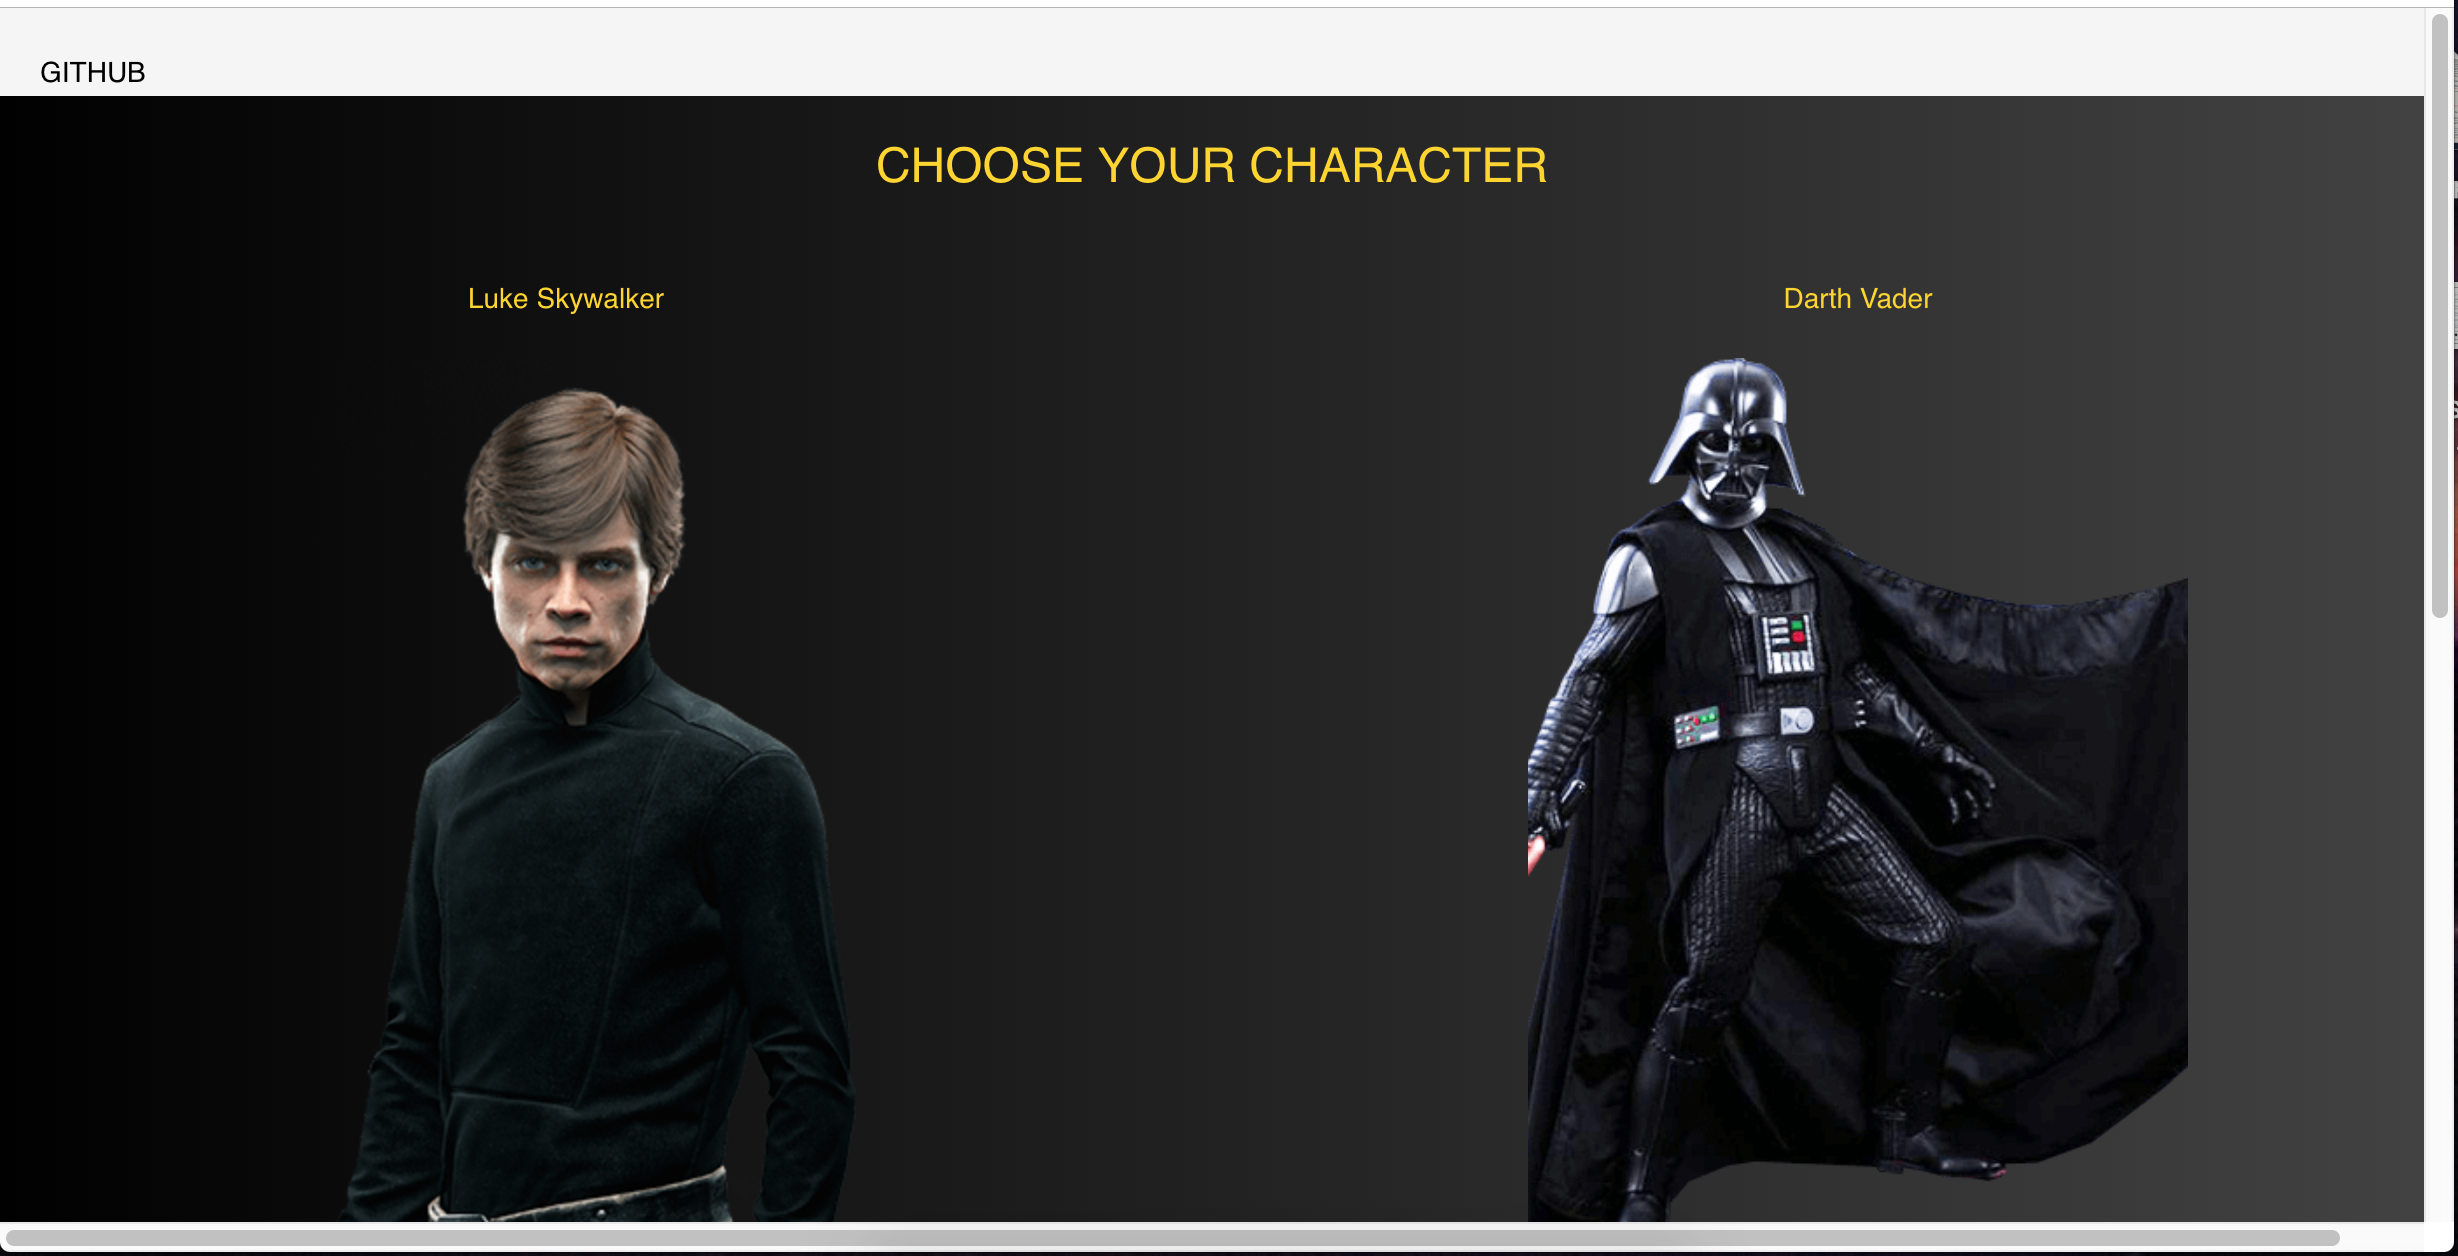
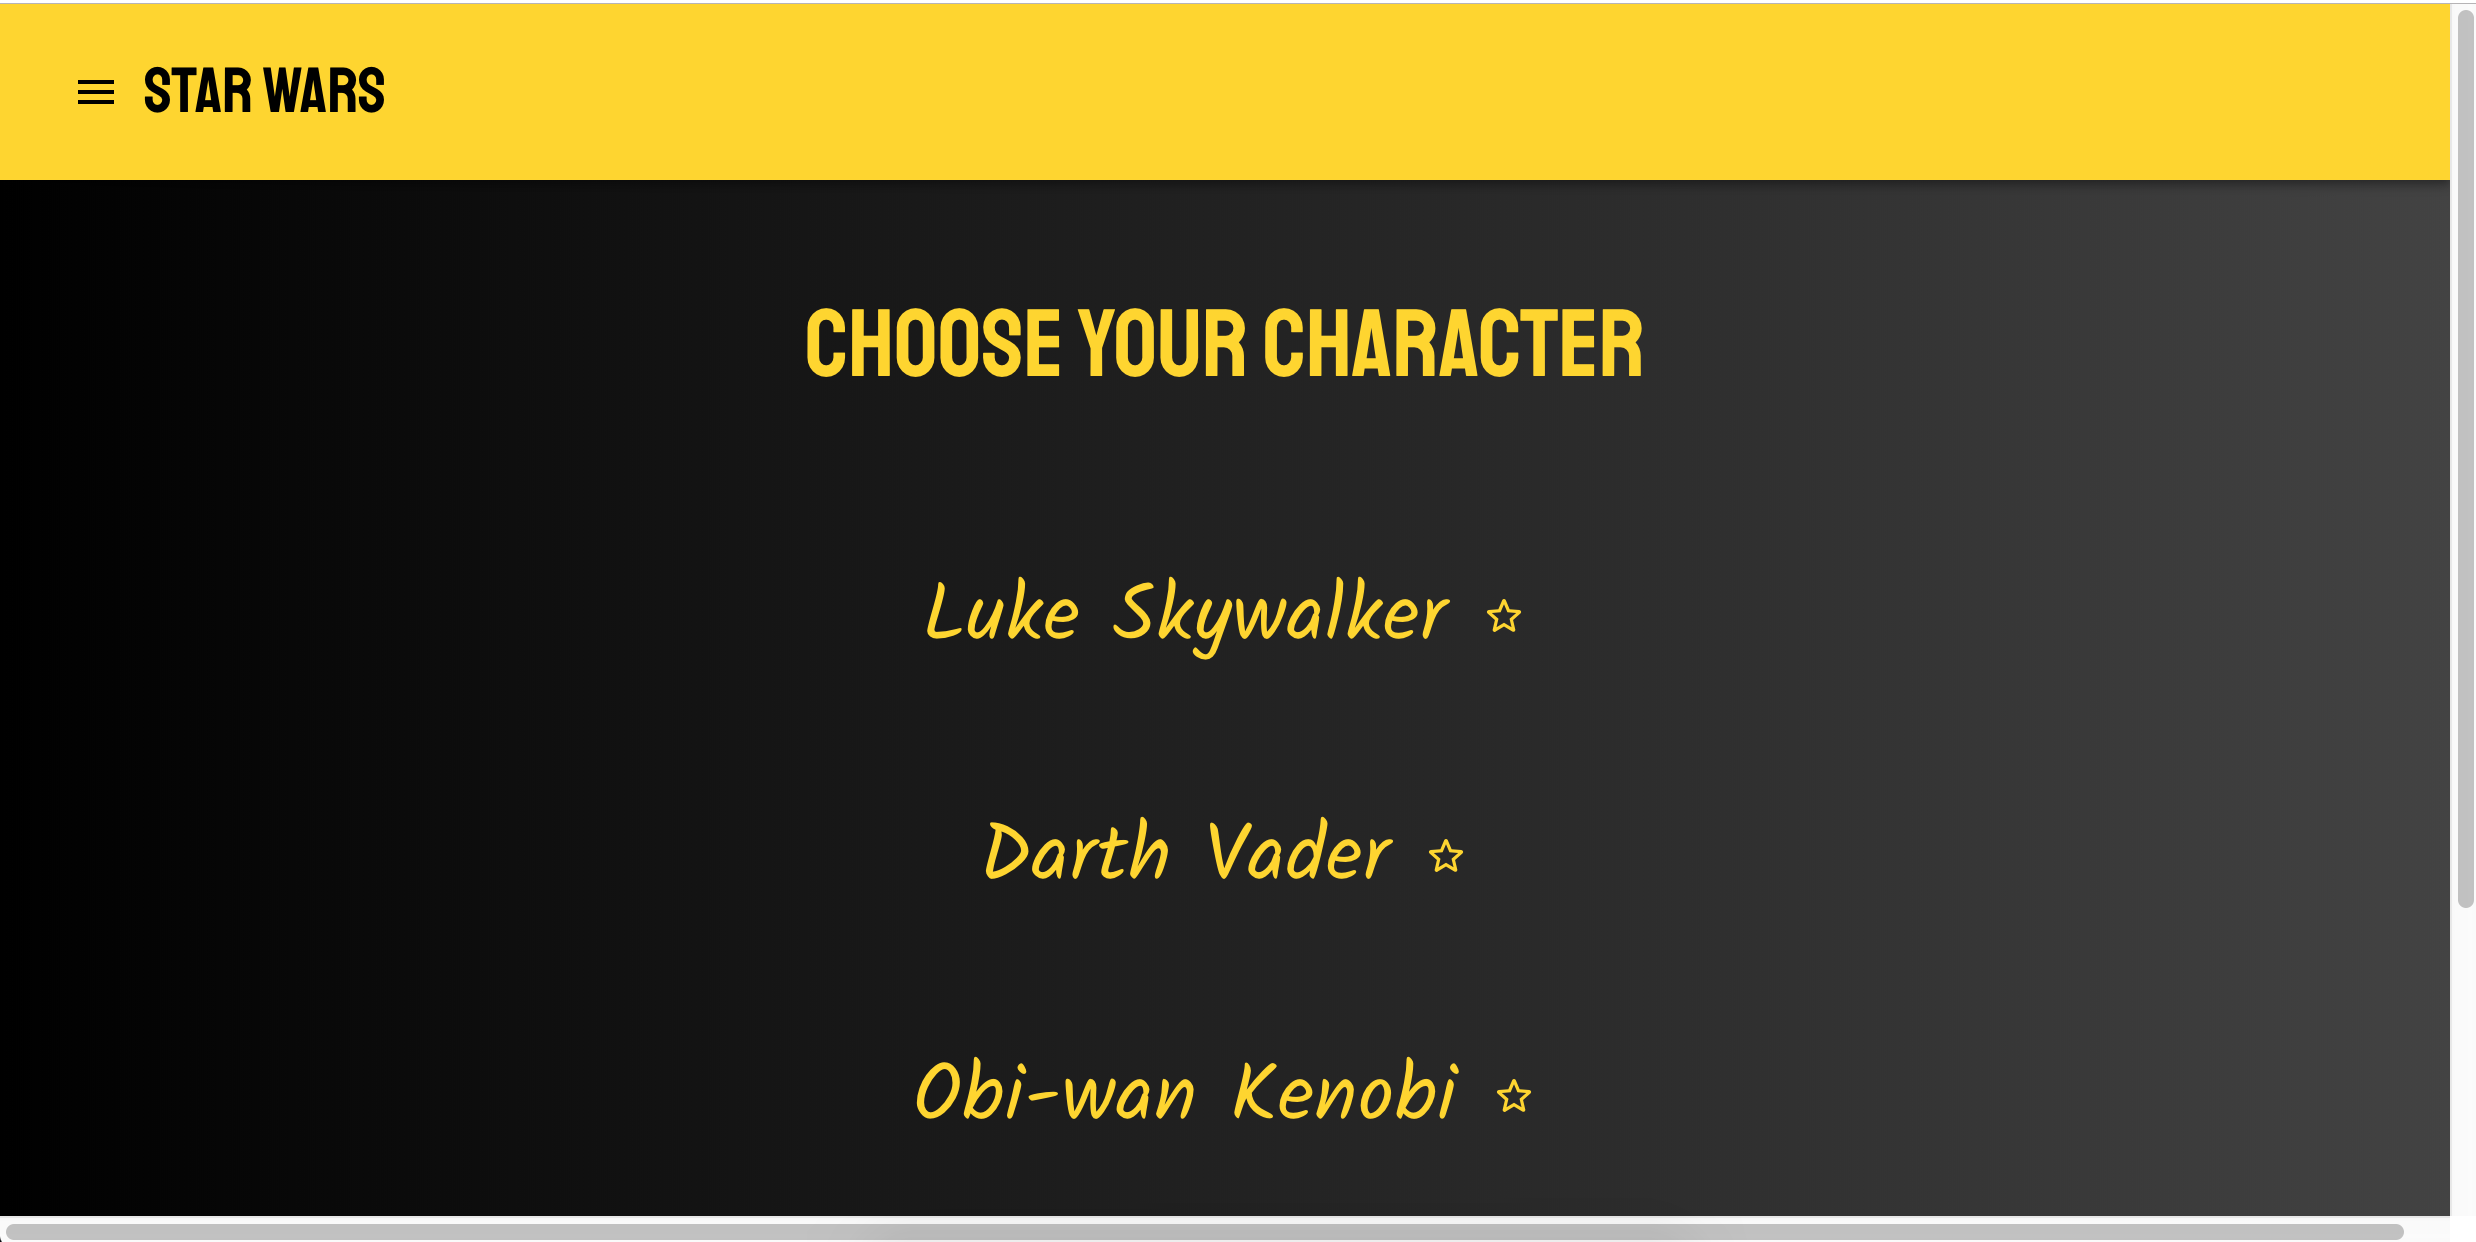
Final cleanup and update readme

diff --git a/src/components/Characters/index.js b/src/components/Characters/index.js
@@ -2,26 +2,25 @@ import React from 'react';
 import { Link } from 'react-router-dom';
 
 import { Grid, Typography } from '@material-ui/core';
+import { StarBorderRounded } from '@material-ui/icons';
 import { withStyles } from '@material-ui/core/styles';
 
 import { starWarsData } from './characters';
 
 const styles = theme => ({
-  characterAvatar: {
-    borderRadius: 0,
-    cursor: 'pointer',
-    height: '100%',
-    width: '100%',
-    '&:hover': {
-       outline: `10px solid ${theme.palette.primary.main}`,
-       transition: 'outline 0.6s linear',
-       margin: '0.1em',
-    },
-  },
   characterName: {
     color: theme.palette.primary.main,
     fontFamily: 'Kalam',
-    padding: theme.spacing.unit * 2.5,
+    fontSize: theme.spacing.unit * 5,
+    padding: theme.spacing.unit,
+  },
+  characterTitle: {
+    color: theme.palette.primary.main,
+    fontFamily: 'Staatliches',
+    fontSize: theme.spacing.unit * 6,
+    marginTop: theme.spacing.unit * 6,
+    marginBottom: theme.spacing.unit * 3,
+    padding: theme.spacing.unit,
   },
 });
 
@@ -34,7 +33,7 @@ const Characters = props => {
     <Grid container direction="column" justify="space-around" align="center" spacing={40}>
       <Grid item>
         <Typography
-          className={classes.characterName}
+          className={classes.characterTitle}
           variant="h3"
           color="primary"
         >
@@ -43,7 +42,12 @@ const Characters = props => {
       </Grid>
       {characters.map((ele, index) => {
         return (
-          <Grid item key={ele.name} xs={12} sm={6}>
+          <Grid
+            item
+            key={ele.name}
+            xs={12}sm={6}
+            className={classes.innerContainer}
+          >
             <Link
               to={{ pathname: '/character', ele }}
               style={{ textDecoration: 'none' }}
@@ -53,7 +57,7 @@ const Characters = props => {
                 variant="h6"
                 color="primary"
               >
-                {ele.name}
+                {ele.name} <StarBorderRounded />
               </Typography>
             </Link>
           </Grid>

diff --git a/src/components/Details/style.js b/src/components/Details/style.js
@@ -10,6 +10,9 @@ export const styles = theme => ({
     width: '50%',
     color: '#ffffff',
     textAlign: 'center',
+    [theme.breakpoints.down('sm')]: {
+      marginBottom: theme.spacing.unit * 4,
+    },
   },
   elementChild: {
     width: '300px',
@@ -28,13 +31,9 @@ export const styles = theme => ({
     border: '2px solid #828282',
     height: 550,
     width: 350,
-  },
-  nextButtonText: {
-    cursor: 'pointer',
-    fontFamily: 'Kalam',
-    fontSize: theme.spacing.unit * 4,
-    marginTop: theme.spacing.unit,
-    paddingBottom: theme.spacing.unit,
+    [theme.breakpoints.down('sm')]: {
+      marginLeft: theme.spacing.unit * 8,
+    },
   },
   iconElement: {
     width: '50px',
@@ -49,20 +48,28 @@ export const styles = theme => ({
     fontFamily: 'Abril Fatface',
     fontSize: theme.spacing.unit * 4,
     margin: '90px 0px 20px 0px',
+    paddingBottom: theme.spacing.unit * 4,
     borderBottom: '1px solid #5d5d5d',
   },
   linkText: {
     fontFamily: 'Abril Fatface',
-    fontSize: theme.spacing.unit * 2,
+    fontSize: theme.spacing.unit * 5,
     paddingTop: theme.spacing.unit * 2,
+  },
+  nextButtonText: {
+    cursor: 'pointer',
+    fontFamily: 'Nanum Gothic',
+    fontSize: theme.spacing.unit * 4,
+    paddingTop: theme.spacing.unit * 5,
+    paddingBottom: theme.spacing.unit,
   },
   openingCrawl: {
     fontFamily: 'Nanum Gothic',
     fontSize: theme.spacing.unit * 4,
     borderBottom: '1px solid #5d5d5d',
     paddingBottom: theme.spacing.unit * 2,
-    paddingLeft: theme.spacing.unit * 12,
-    paddingRight: theme.spacing.unit * 12,
+    paddingLeft: theme.spacing.unit * 10,
+    paddingRight: theme.spacing.unit * 10,
   },
   squareElement: {
     width: '100px',

diff --git a/src/components/Details/index.js b/src/components/Details/index.js
@@ -7,7 +7,7 @@ import { ArrowRight, InfoOutlined, PersonOutlineRounded } from '@material-ui/ico
 import { withStyles } from '@material-ui/core/styles';
 
 import { fetchMovies } from '../../store/actions';
-import { filmMap } from '../Character/filmMap';
+import { filmMap } from './filmMap';
 import { styles } from './style';
 import { formatDate } from '../../helperFunctions/dateFormatter';
 
@@ -50,7 +50,7 @@ class Details extends Component {
               >
                 Click here to select another character
                 <PersonOutlineRounded
-                  style={{ verticalAlign: 'bottom' }}
+                  style={{ verticalAlign: 'middle' }}
                 />
               </Typography>
             </Link>
@@ -88,13 +88,6 @@ class Details extends Component {
                   }
                 </Grid>
               </Grid>
-              <Typography
-                color="primary"
-                onClick={() => this.handleNext()}
-                className={classes.nextButtonText}
-              >
-                NEXT FILM <ArrowRight />
-              </Typography>
             </Grid>
             <Grid item xs={12} sm={6} className={classes.element}>
               {filmMap.map(film => {
@@ -110,6 +103,13 @@ class Details extends Component {
                 }
               })}
             </Grid>
+            <Typography
+              color="primary"
+              onClick={() => this.handleNext()}
+              className={classes.nextButtonText}
+            >
+              NEXT FILM <ArrowRight />
+            </Typography>
           </Grid>
           <Grid item xs={12}>
             <Typography

diff --git a/src/index.js b/src/index.js
@@ -1,27 +1,31 @@
 import React from 'react';
 import ReactDOM from 'react-dom';
-import { BrowserRouter, Route, Redirect, Switch } from 'react-router-dom';
+import { BrowserRouter } from 'react-router-dom';
+import { createStore, applyMiddleware, combineReducers } from 'redux';
+import thunk from 'redux-thunk';
+import { Provider } from 'react-redux';
 
 import './index.css';
 import App from './App';
 import * as serviceWorker from './serviceWorker';
-import Characters from './components/Characters';
-import Character from './components/Character';
+import reducer from './store/reducers';
 
-ReactDOM.render(
-  <App>
-    <BrowserRouter>
-      <Switch>
-        <Route path="/character" exact render={(props) => <Character {...props} />} />
-        <Route path="/" exact component={Characters} />
-        <Redirect to="/" />
-      </Switch>
-    </BrowserRouter>
-  </App>,
-  document.getElementById('root')
+const rootReducer = combineReducers({
+  reducer: reducer,
+});
+
+const store = createStore(
+  rootReducer,
+  applyMiddleware(thunk)
 );
 
-// If you want your app to work offline and load faster, you can change
-// unregister() to register() below. Note this comes with some pitfalls.
-// Learn more about service workers: http://bit.ly/CRA-PWA
+const app = (
+  <Provider store={store}>
+    <BrowserRouter>
+      <App />
+    </BrowserRouter>
+  </Provider>
+)
+
+ReactDOM.render(app, document.getElementById('root'));
 serviceWorker.unregister();

diff --git a/src/App.js b/src/App.js
@@ -1,22 +1,12 @@
 import React from 'react';
-import { Provider } from 'react-redux';
-import { createStore, applyMiddleware, combineReducers } from 'redux';
-import thunk from 'redux-thunk';
+import { Route, Switch, Redirect } from 'react-router-dom';
 
 import { createMuiTheme, MuiThemeProvider, withStyles } from '@material-ui/core/styles';
 
+import Characters from './components/Characters';
+import Character from './components/Character';
 import Navbar from './components/Navbar';
 import Footer from './components/Footer';
-import reducer from './store/reducers';
-
-const rootReducer = combineReducers({
-  reducer: reducer,
-});
-
-const store = createStore(
-  rootReducer,
-  applyMiddleware(thunk)
-);
 
 const styles = () => ({
   container: {
@@ -41,18 +31,26 @@ const theme = createMuiTheme({
   spacing: 8,
 });
 
+let routes = (
+  <Switch>
+    <Route path="/character" exact render={(props) => <Character {...props} />} />
+    <Route path="/" exact component={Characters} />
+    <Redirect to="/" />
+  </Switch>
+);
+
 const App = (props) => {
   const { classes } = props;
   return (
-    <Provider store={store}>
+    <Route>
       <MuiThemeProvider theme={theme}>
         <Navbar />
         <div className={classes.container}>
-          {props.children}
+          {routes}
         </div>
         <Footer />
       </MuiThemeProvider>
-    </Provider>
+    </Route>
   )
 }
 

diff --git a/src/components/Navbar/index.js b/src/components/Navbar/index.js
@@ -1,5 +1,5 @@
 import React, { Component } from 'react';
-import PropTypes from 'prop-types';
+import { Link } from 'react-router-dom';
 
 import {
   AppBar,
@@ -20,6 +20,10 @@ const styles = theme => ({
   menuButton: {
     marginRight: theme.spacing.unit * 2.5,
   },
+  navTitle: {
+    fontFamily: 'Staatliches',
+    fontSize: theme.spacing.unit * 4,
+  }
 });
 
 class Navbar extends Component {
@@ -77,7 +81,14 @@ class Navbar extends Component {
           >
             <Menu />
           </IconButton>
-          <div>Star Wars</div>
+          <Link to="/" style={{ textDecoration: 'none' }}>
+            <IconButton
+              color={headerTrans ? 'primary' : 'secondary'}
+              className={classes.navTitle}
+            >
+              Star Wars
+            </IconButton>
+          </Link>
           <SideDrawer
             open={open}
             onClose={val => this.toggleDrawer(val)}
@@ -87,9 +98,5 @@ class Navbar extends Component {
     );
   }
 }
-
-Navbar.propTypes = {
-  classes: PropTypes.object.isRequired,
-};
 
 export default (withStyles(styles)(Navbar));

diff --git a/src/components/SideDrawer/index.js b/src/components/SideDrawer/index.js
@@ -1,4 +1,5 @@
 import React from 'react';
+import { Link } from 'react-router-dom';
 
 import { Drawer, List, ListItem } from '@material-ui/core';
 
@@ -12,6 +13,14 @@ const SideDrawer = props => {
       onClose={() => onClose(false)}
     >
       <List component="nav">
+        <ListItem button>
+          <Link
+            to="/"
+            style={{ textDecoration: 'none', color: '#000' }}
+          >
+            Home
+          </Link>
+        </ListItem>
         <ListItem button>
           <a
             href="https://github.com/kelvanince1/star-wars"

diff --git a/src/components/__tests__/App.test.js b/src/components/__tests__/App.test.js
@@ -3,11 +3,11 @@ import React from 'react';
 import { Avatar } from '@material-ui/core';
 import { shallow } from 'enzyme';
 
-import Characters from '../Characters';
-import Luke from '../../images/Characters/luke.png';
+import Details from '../Details';
+import Luke from '../../images/Rotation/Luke/luke1.jpg';
 
 it('Shows an avatar containing a character image', () => {
-  const virtualComponent = shallow(<Characters />);
+  const virtualComponent = shallow(<Details />);
 
   expect(virtualComponent.find(Avatar).contains(Luke));
 });

diff --git a/src/setupTests.js b/src/setupTests.js
@@ -2,3 +2,11 @@ import Enzyme from 'enzyme';
 import Adapter from 'enzyme-adapter-react-16';
 
 Enzyme.configure({ adapter: new Adapter() });
+
+window.matchMedia = window.matchMedia || function() {
+  return {
+  matches : false,
+  addListener : function() {},
+  removeListener: function() {}
+  };
+};

diff --git a/src/components/Background/index.js b/src/components/Background/index.js
@@ -1,6 +1,6 @@
 import React from 'react';
 
-import { Grid , Typography } from '@material-ui/core';
+import { Grid } from '@material-ui/core';
 import { withStyles } from '@material-ui/core/styles';
 
 import Rotation from './Rotation';

diff --git a/README.md b/README.md
@@ -40,7 +40,6 @@ TOOLS USED:
 
 IMPROVEMENTS/NEXT STEPS:
 
-* I strongly considered using GraphQL to implement props for this app. I decided against it since we aren't mutating data at all. Let's say we were building the API as well as the front end for this app, I would want to use GraphQL instead of Redux since the API contains quite a lot of nested data which we could mutate easier with GraphQL.
 * I would automate further deployments using AWS CodeBuild and CodeCommit probably. I would have the S3 buckets contents populated upon successful builds and then, possibly, CloudFront to generate a link between the S3 contents and a Route53 hosted zone, allowing us greater DNS flexibility.
 * I would write a more comprehensive testing model. The tests I have written are straightforward.
 * On the page showing some information on the particular chosen film, I would like the text to scroll up the way it does in the intro to Star Wars films.
